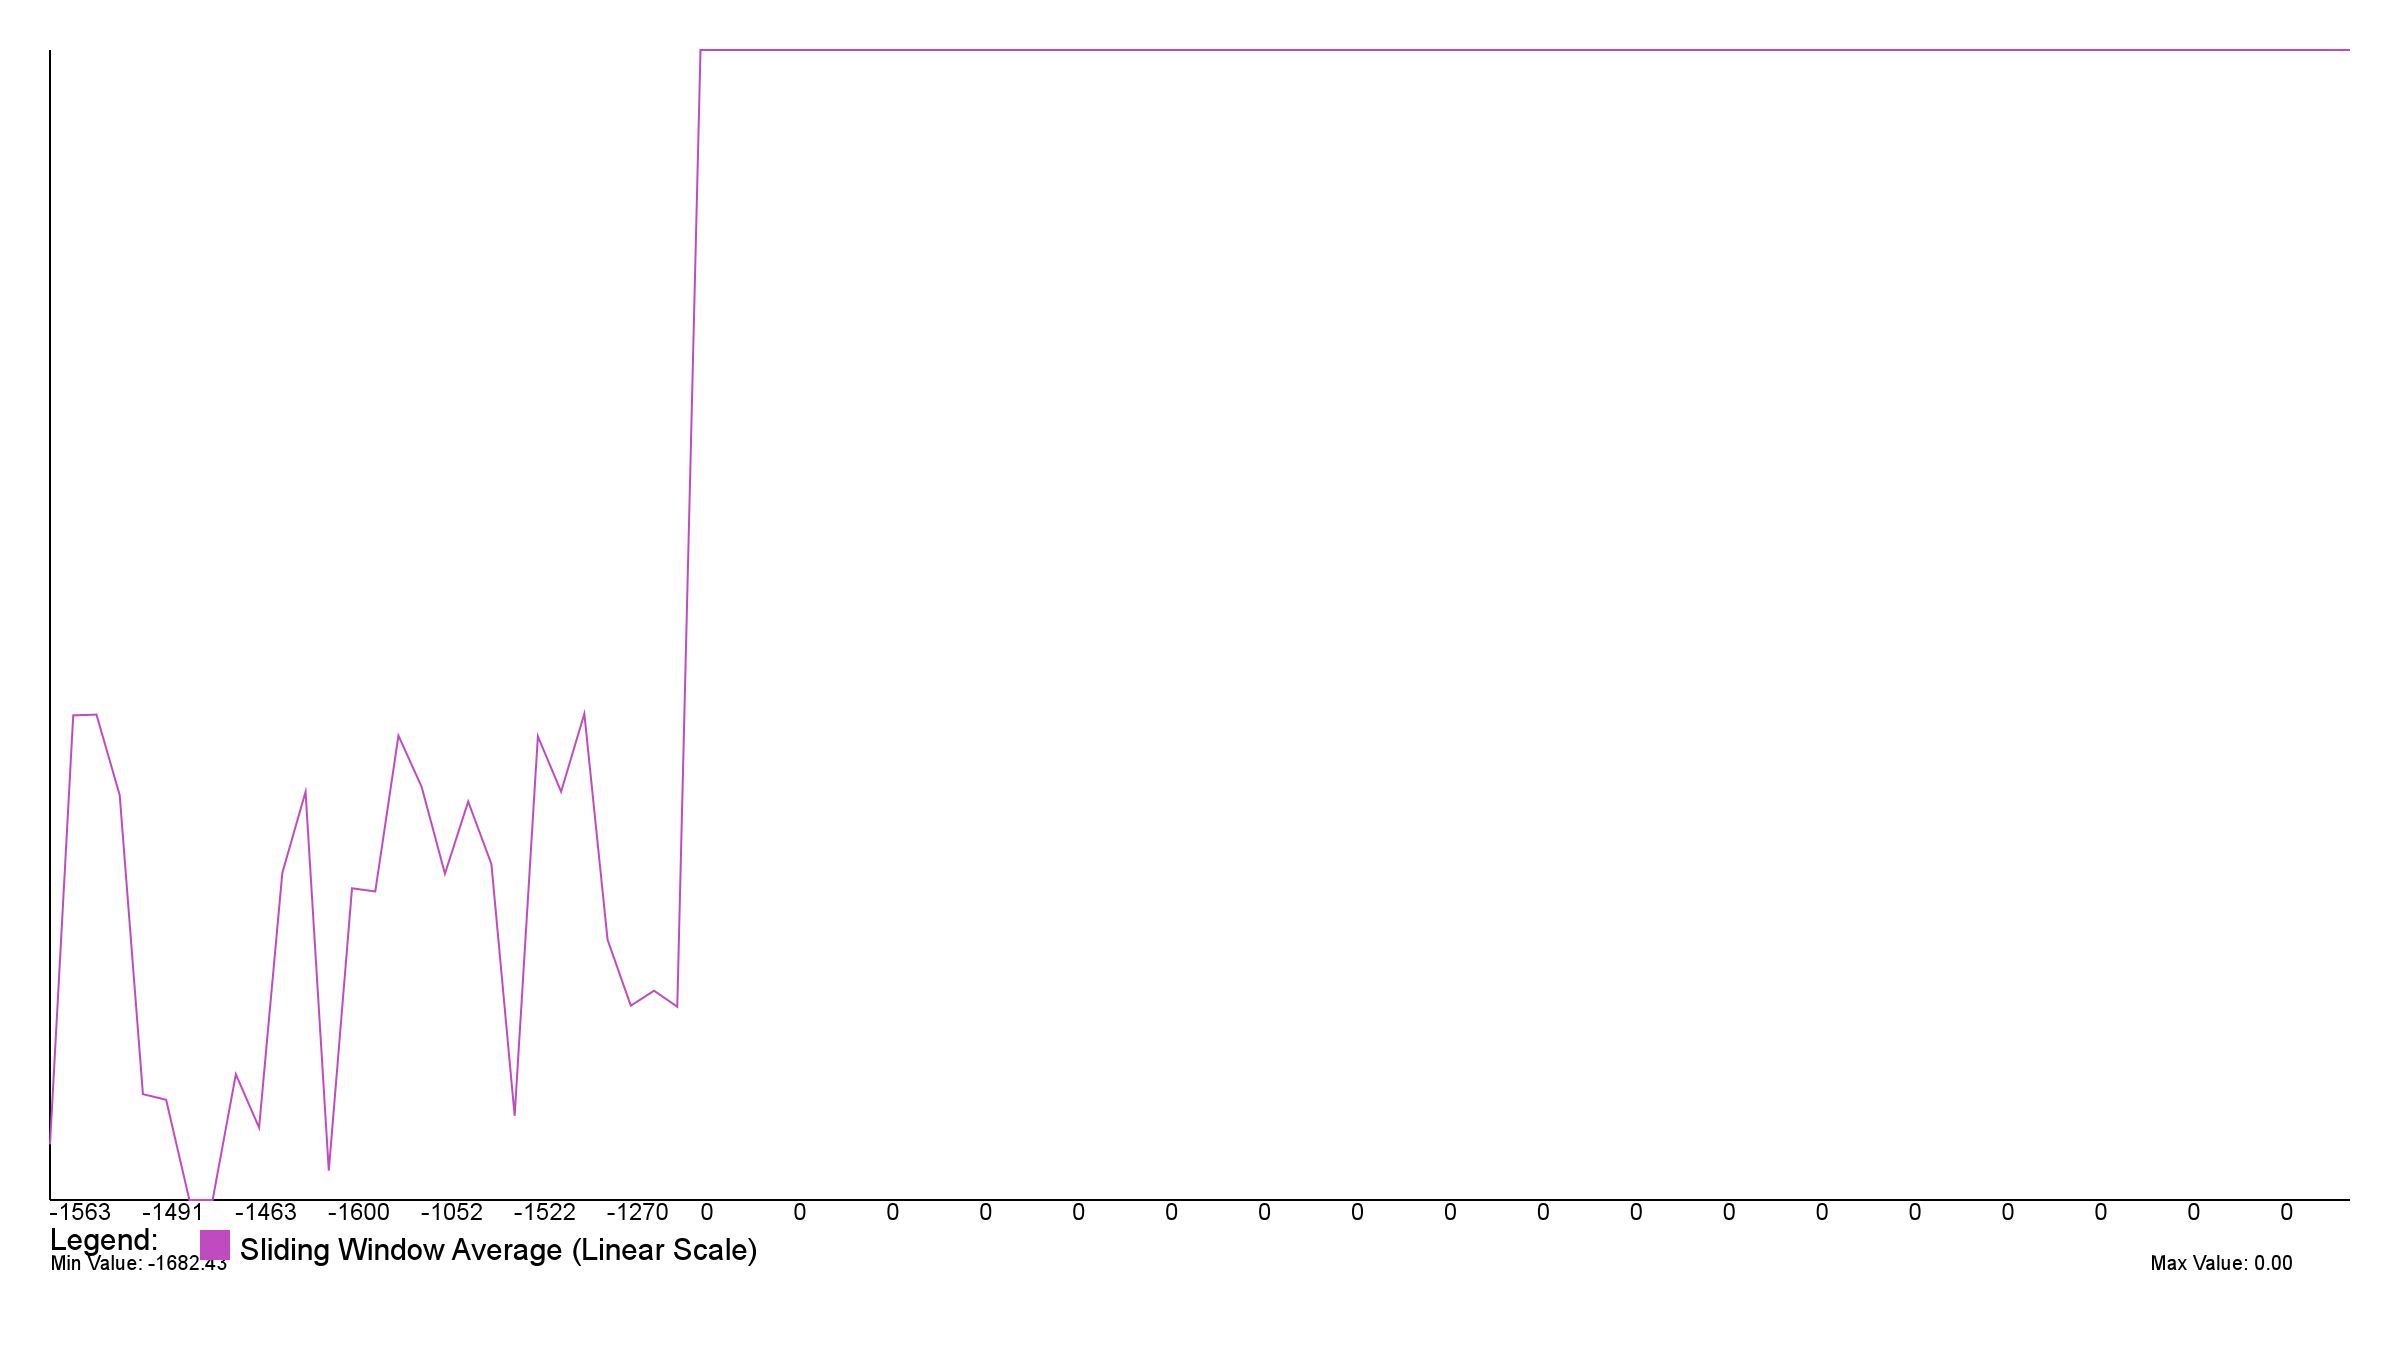
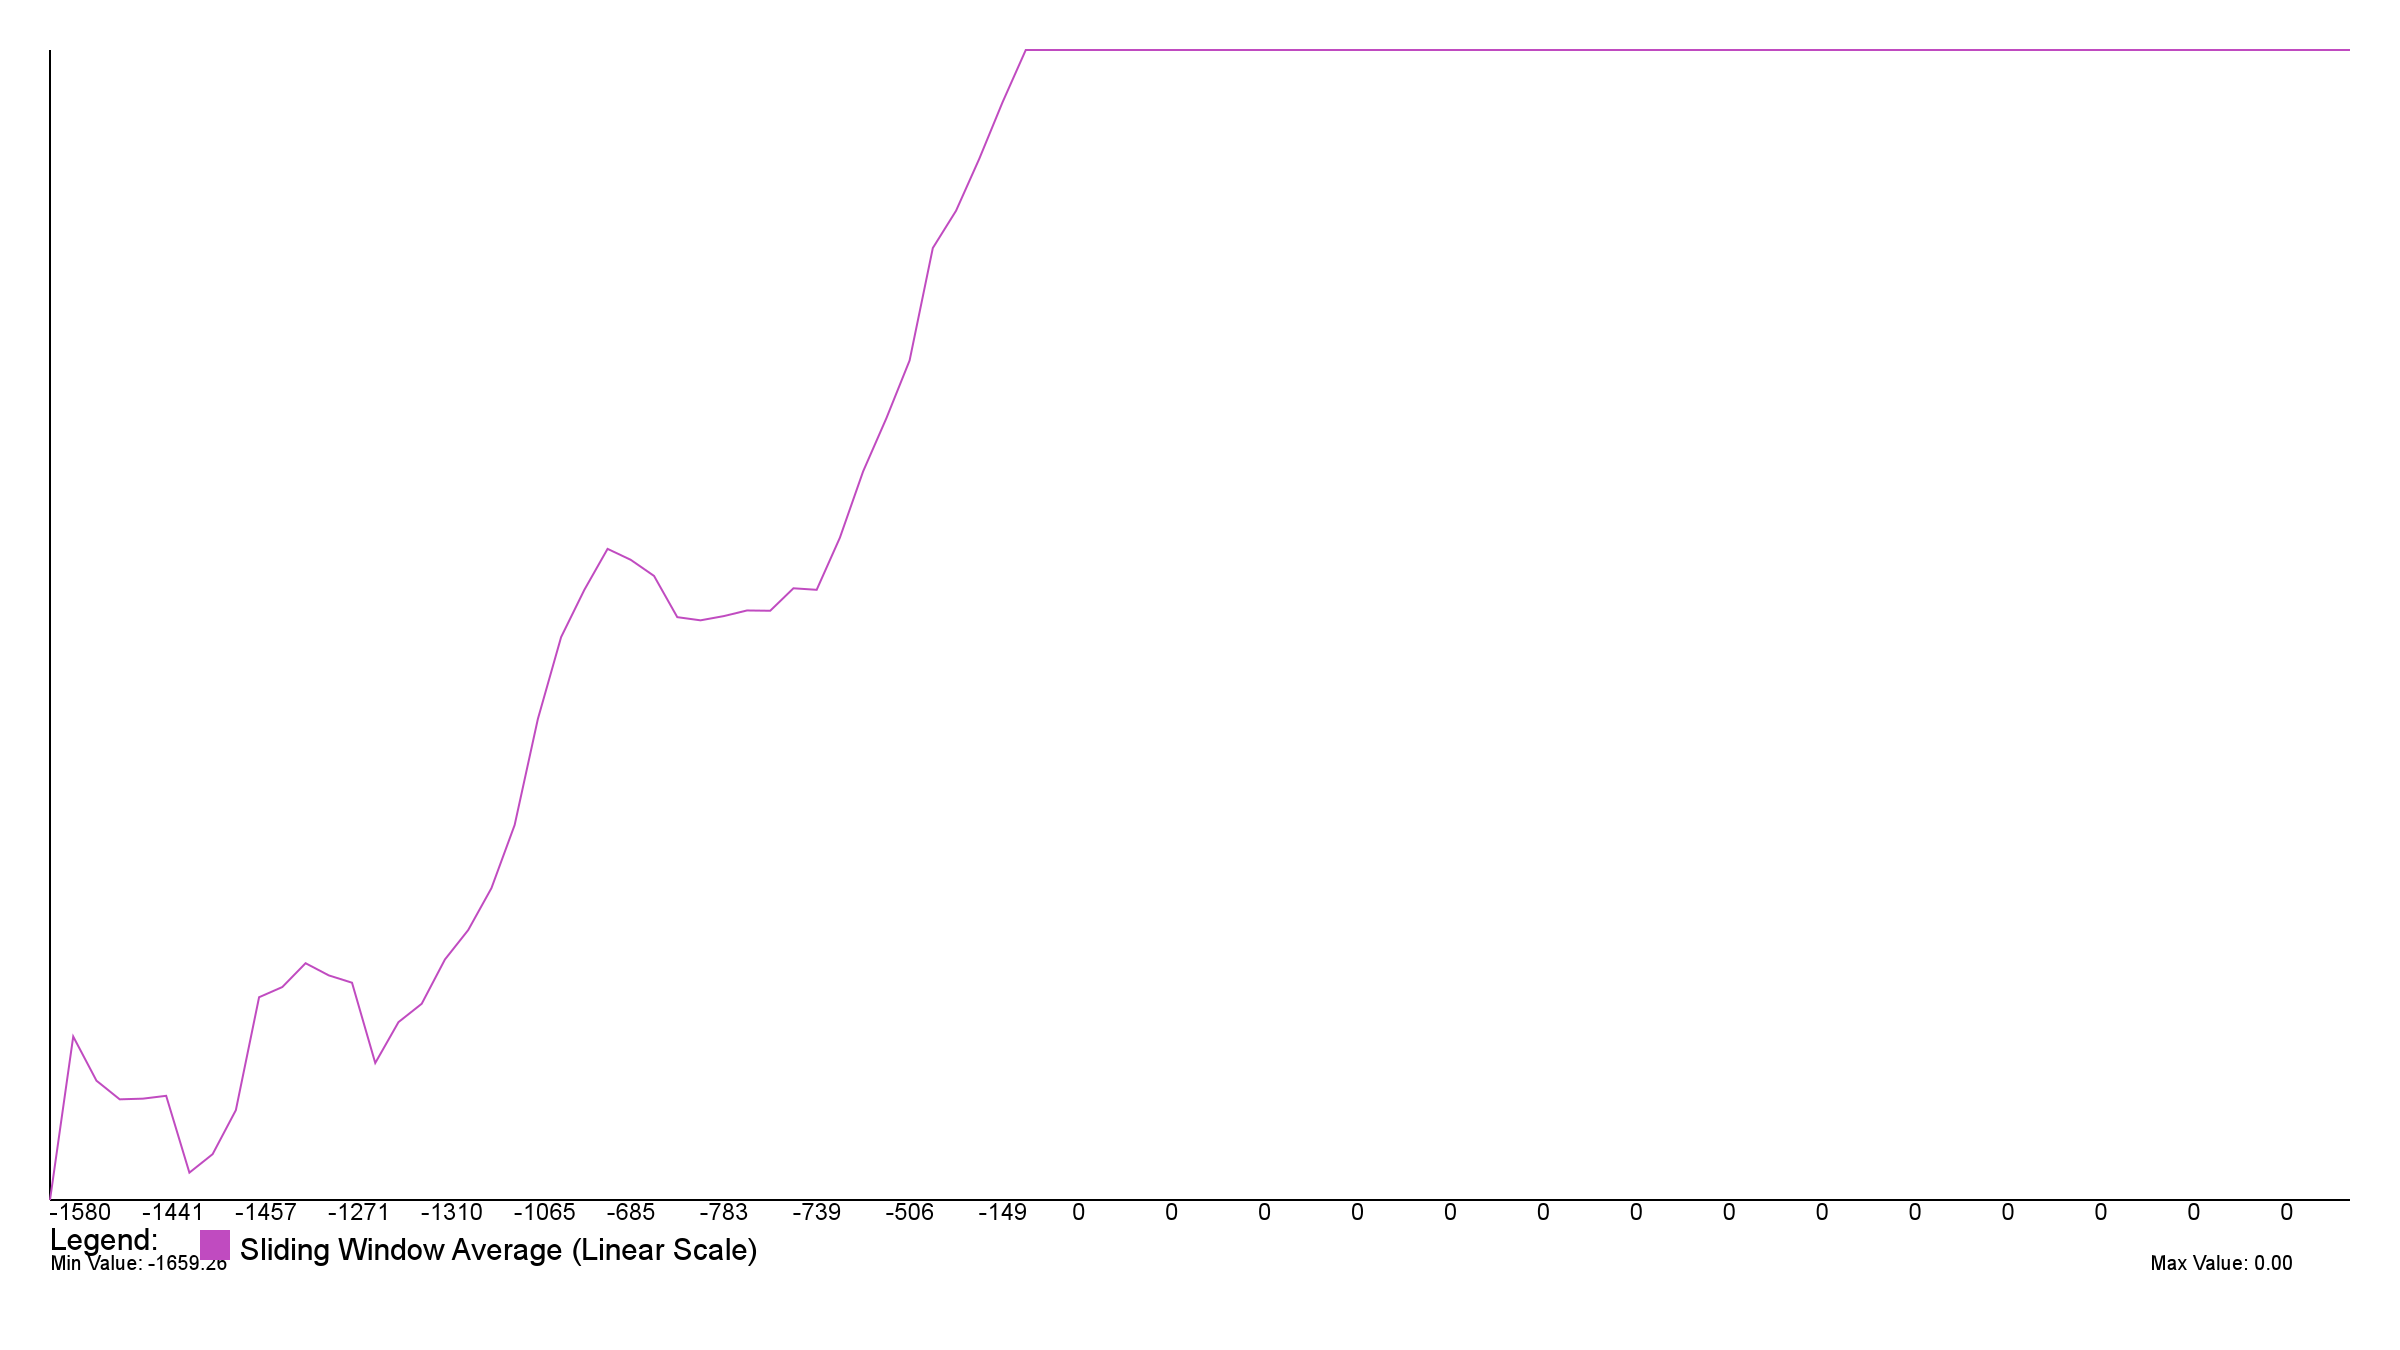
fixed DDPG

diff --git a/src/GPU/model.js b/src/GPU/model.js
@@ -4,7 +4,6 @@ class OUActionNoise {
         this.mean = tf.tensor1d(mean);
         this.stdDev = stdDeviation;
         this.dt = dt;
-        this.seed = Date.now();
 
         this.reset();
     }
@@ -12,7 +11,7 @@ class OUActionNoise {
     call() {
         const x = tf.tensor1d(this.xPrev)
             .add(this.mean.sub(tf.tensor1d(this.xPrev).mul(this.theta).mul(this.dt)))
-            .add(tf.scalar(this.stdDev).mul(tf.scalar(this.dt).sqrt()).mul(tf.randomNormal(this.mean.shape, 0, 1)));
+            .add(tf.scalar(this.stdDev).mul(tf.scalar(this.dt).sqrt()).mul(tf.randomNormal(this.mean.shape)));
 
         this.xPrev = x.dataSync();
         return x;
@@ -77,14 +76,14 @@ class DDPG {
         this.actorModelOptimizer = tf.train.adam(this.actorLR);
         this.criticModelOptimizer = tf.train.adam(this.criticLR);
         
+        //this.actorModel.
     }
 
     createActorModel() {
         const model = tf.sequential();
-        model.add(tf.layers.dense({ units: 256, activation: 'relu', inputShape: this.inputs }));
-        model.add(tf.layers.dense({ units: 256, activation: 'relu' }));
-        //model.add(tf.layers.dense({ units: this.outputs[0], activation: 'tanh', kernelInitializer: tf.initializers.randomUniform( { minval: -0.003, maxval: 0.003 }) }));
-        model.add(tf.layers.dense({ units: this.outputs[0], activation: 'tanh' }));
+        model.add(tf.layers.dense({ units: 32, activation: 'relu', inputShape: this.inputs }));
+        model.add(tf.layers.dense({ units: 16, activation: 'relu' }));
+        model.add(tf.layers.dense({ units: this.outputs[0], activation: 'tanh', kernelInitializer: tf.initializers.randomUniform( { minval: -0.003, maxval: 0.003 }) }));
         
         return model;
     }
@@ -134,8 +133,7 @@ class DDPG {
             const nextStateBatch = tf.stack(batch.map(exp => tf.tensor1d(exp.nextState)));
             const actionBatch = tf.stack(batch.map(exp => tf.tensor1d(exp.action)));
             const rewardBatch = tf.tensor1d(batch.map(exp => exp.reward));
-
-
+            const doneMask = tf.scalar(1).sub(tf.tensor1d(batch.map(exp => exp.done)).asType('float32'));
 
 
 
@@ -144,15 +142,24 @@ class DDPG {
                 const targetActions = this.targetActorModel.predict(nextStateBatch);
                 const targetQ = this.targetCriticModel.predict([nextStateBatch, targetActions]).squeeze();
 
-                const y = rewardBatch.add(targetQ.mul(this.gamma));
+                const y = rewardBatch.add(targetQ.mul(this.gamma).mul(doneMask));
 
                 const criticQs = this.criticModel.predict([stateBatch, actionBatch]).squeeze();
                 const criticLoss = tf.losses.meanSquaredError(y, criticQs);
 
                 return criticLoss;
-            })
+            }, this.criticModel.getWeights())
+
+
+
+            for (const key in critic_gradients) {
+                critic_gradients[key] = critic_gradients[key].clipByValue(-1, 1);
+            }
 
             this.criticModelOptimizer.applyGradients(critic_gradients);
+
+
+
 
 
 
@@ -163,9 +170,17 @@ class DDPG {
                 const actor_loss = criticValue.mean().neg();
 
                 return actor_loss;
-            })
+            }, this.actorModel.getWeights())
+
+
+            for (const key in actor_gradients) {
+                actor_gradients[key] = actor_gradients[key].clipByValue(-1, 1);
+            }
 
             this.actorModelOptimizer.applyGradients(actor_gradients);
+
+
+
 
 
 
@@ -190,7 +205,8 @@ class DDPG {
                 const updatedWeights = targetWeights.map((targetWeight, i) => {
                     const originalWeight = modelWeights[i];
                     
-                    return tf.mul(originalWeight, this.tau).add(tf.mul(targetWeight, (1 - this.tau)))
+                    //return tf.mul(originalWeight, this.tau).add(tf.mul(targetWeight, (1 - this.tau)))
+                    return tf.mul(originalWeight, 1 - this.tau).add(tf.mul(targetWeight, this.tau))
                 });
                 
                 targetModel.setWeights(updatedWeights);

diff --git a/index.js b/index.js
@@ -42,8 +42,8 @@ async function onDone() {
     let shouldStop = currentEpisode / episodes >= 1;
 
     //if (shouldStop || currentEpisode % 25 == 0) {
-        drawCanvas(rewardsHistory, currentEpisode, 2400, 1, true, path.join(__dirname, "graph_log.png")); // 50 instead of 1
-        drawCanvas(rewardsHistory, currentEpisode, 2400, 1, false, path.join(__dirname, "graph_linear.png")); // 50 instead of 1
+        drawCanvas(rewardsHistory, currentEpisode, 2400, 5, true, path.join(__dirname, "graph_log.png")); // 50 instead of 1
+        drawCanvas(rewardsHistory, currentEpisode, 2400, 5, false, path.join(__dirname, "graph_linear.png")); // 50 instead of 1
     //}
 
     return shouldStop;

diff --git a/src/GPU/server.js b/src/GPU/server.js
@@ -18,7 +18,7 @@ class ActorModel {
   epsilonDecay = 0.995; 
   minEpsilon = 0.05;
   batchSize = 64;
-  tau = 0.05;
+  tau = 0.005;
 
   memorySize = 500000;
   minimumMemory = 128;
